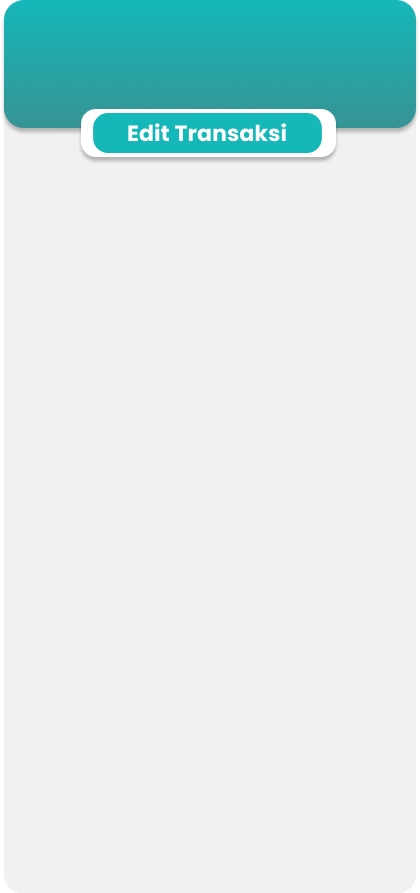
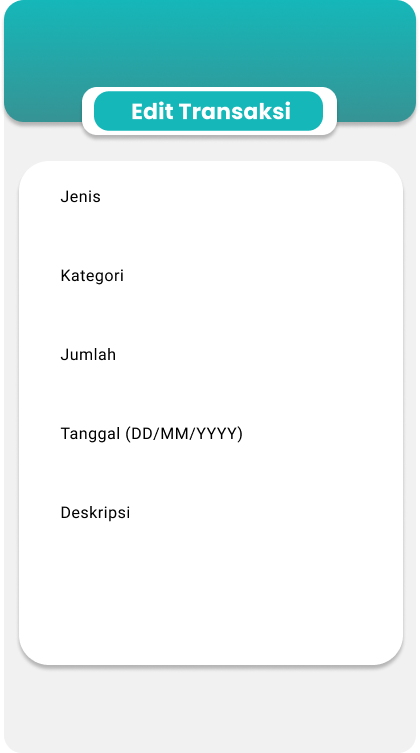
formEdit
formEdit

diff --git a/service/edit.py b/service/edit.py
@@ -2,7 +2,7 @@ from tkinter import *
 from tkinter import messagebox, ttk
 from datetime import datetime
 from database import DatabaseManager
-
+from service.formEdit import PageFormEditTransaksi
 from pathlib import Path
 
 OUTPUT_PATH = Path(__file__).parent
@@ -40,11 +40,12 @@ class PageEditTransaksi:
         Label(self.canvas, text="Masukkan ID Transaksi Yang Ingin Diubah", bg="#23A8AA", fg="#FFFFFF", font=("Arial", 10)).place(x=80, y=640.0)
 
         self.button_ubahId = PhotoImage(file=relative_to_assets("btnUbahId.png"))
-        Button(self.root, image=self.button_ubahId, borderwidth=0, bg="#369394", command=self.form_edit_transaksi, relief="flat", highlightthickness=0).place(x=280.0, y=670.0, width=103.0, height=45.0)
+        Button(self.root, image=self.button_ubahId, borderwidth=0, bg="#369394", command=lambda: self.form_edit_transaksi(self.txt_id.get()), relief="flat", highlightthickness=0).place(x=280.0, y=670.0, width=103.0, height=45.0)
 
         self.bgtxt_id = PhotoImage(file=relative_to_assets("Textbox.png"))
         self.txt_id_frame = self.canvas.create_image(120.0, 695.0, image=self.bgtxt_id)
-        Entry(self.canvas, font=("Arial", 12), width=20, relief="flat").place(x=45, y=677.0, width=150, height=26)
+        self.txt_id = Entry(self.canvas, font=("Arial", 12), width=20, relief="flat")
+        self.txt_id.place(x=45, y=677.0, width=150, height=26)
 
         self.button_kembali = PhotoImage(file=relative_to_assets("btnKembali.png"))
         Button(
@@ -76,117 +77,30 @@ class PageEditTransaksi:
         self.info_label = Label(self.root, text="", font=("Arial", 10), bg="#FFFFFF", fg="#666")
         self.info_label.place(x=10, y=710)
     
-    def form_edit_transaksi(self):
-        try:
-            # Get ID from entry
-            id_entry = self.canvas.find_withtag("current")
-            id_value = self.canvas.itemcget(id_entry, "text").strip()
-            
-            if not id_value.isdigit():
-                messagebox.showerror("Error", "ID harus berupa angka!")
-                return
-            
-            transaksi_id = int(id_value)
-            
-            self.canvas_e = Canvas(
-                self.root,
-                bg="#FFFFFF",
-                height=752,
-                width=412,
-                bd=0,
-                highlightthickness=0,
-                relief="ridge"
-            )
-            self.canvas_e.place(x=0, y=0)
+    @staticmethod
+    def center_window(window, width=412, height=752):
+        window.update_idletasks()
+        screen_width = window.winfo_screenwidth()
+        screen_height = window.winfo_screenheight()
+        x = (screen_width // 2) - (width // 2)
+        y = (screen_height // 2) - (height // 2)
+        window.geometry(f"{width}x{height}+{x}+{y}")
+    
+    def form_edit_transaksi(self, id_transaksi):
+        if not id_transaksi:
+            messagebox.showwarning("Warning", "Masukkan ID transaksi yang valid!")
+            return
+        
+        transaksi_list = self.db.get_all_transaksi()
 
-            self.image_edit = PhotoImage(file=relative_to_assets("EditForm.png"))
-            self.canvas_e.create_image(206.0, 376.0, image=self.image_edit)
-
-            # Tombol Kembali
-            self.btn_kembali_edit = PhotoImage(file=relative_to_assets("btnKembali.png"))
-            Button(
-                self.root,
-                image=self.btn_kembali_edit,
-                borderwidth=0,
-                highlightthickness=0,
-                command=self.root.destroy,
-                relief="flat"
-            ).place(x=13.0, y=35.0, width=100.0, height=22.188)
-
-            # Tombol Simpan Perubahan
-            self.btn_simpan_edit = PhotoImage(file=relative_to_assets("btnSimpanEdit.png"))
-            Button(
-                self.root,
-                image=self.btn_simpan_edit,
-                borderwidth=0,
-                highlightthickness=0,
-                command=self.simpan_perubahan,
-                relief="flat"
-            ).place(x=86.0, y=692.0, width=108.0, height=30.0)
-
-            # Tombol Batal
-            self.btn_batal_edit = PhotoImage(file=relative_to_assets("btnBatalEdit.png"))
-            Button(
-                self.root,
-                image=self.btn_batal_edit,
-                borderwidth=0,
-                highlightthickness=0,
-                command=self.reset_form,
-                relief="flat"
-            ).place(x=224.0, y=692.0, width=108.0, height=30.0)
-            
-            # Deskripsi (Text)
-            self.entry_image_1 = PhotoImage(file=self.relative_to_assets("textarea.png"))
-            self.canvas_t.create_image(205.0, 581.0, image=self.entry_image_1)
-            self.deskripsi_text = Text(
-                self.window, bd=0, bg="#FFFFFF", fg="#000716", highlightthickness=0
-            )
-            self.deskripsi_text.place(x=55.0, y=530.0, width=300.0, height=100.0)
-
-            # Jumlah
-            self.entry_image_2 = PhotoImage(file=self.relative_to_assets("txtJumlah.png"))
-            self.canvas_t.create_image(205.0, 388.0, image=self.entry_image_2)
-            self.jumlah_entry = Entry(
-                self.window, bd=0, bg="#FFFFFF", fg="#000716", highlightthickness=0
-            )
-            self.jumlah_entry.place(x=55.0, y=372.0, width=300.0, height=30.0)
-
-            # Kategori
-            self.entry_image_3 = PhotoImage(file=self.relative_to_assets("txtKategori.png"))
-            self.canvas_t.create_image(205.0, 310.0, image=self.entry_image_3)
-            self.kategori_entry = Entry(
-                self.window, bd=0, bg="#FFFFFF", fg="#000716", highlightthickness=0
-            )
-            self.kategori_entry.place(x=55.0, y=294.0, width=300.0, height=30.0)
-
-            # Tanggal
-            self.entry_image_4 = PhotoImage(file=self.relative_to_assets("txtTanggal.png"))
-            self.canvas_t.create_image(205.0, 469.0, image=self.entry_image_4)
-            self.tanggal_entry = Entry(
-                self.window, bd=0, bg="#FFFFFF", fg="#000716", highlightthickness=0
-            )
-            self.tanggal_entry.place(x=55.0, y=453.0, width=300.0, height=30.0)
-            self.tanggal_entry.insert(0, datetime.now().strftime("%d-%m-%Y"))
-
-            # Jenis transaksi (Combobox)
-            self.jenis_var = StringVar(value="Pemasukan")
-            self.jenis_combo = ttk.Combobox(
-                self.window,
-                textvariable=self.jenis_var,
-                values=["Pemasukan", "Pengeluaran"],
-                state="readonly"
-            )
-            self.jenis_combo.place(x=55.0, y=210.0, width=300.0, height=32.0)
-
-            # Variabel untuk menyimpan ID yang dipilih
-            self.selected_id = transaksi_id
-            self.status_label = Label(self.root, text="", font=("Arial", 10), bg="#FFFFFF", fg="#666")
-            self.status_label.place(x=10, y=710)
-            self.load_transaksi_detail(transaksi_id)
-            self.load_transaksi_list()
-            
-        except Exception as e:
-            messagebox.showerror("Error", f"Gagal memuat detail transaksi: {str(e)}")
+        for transaksi in transaksi_list:
+            if str(transaksi[0]) == id_transaksi:
+                formEdit_window = Toplevel(self.root)
+                PageFormEditTransaksi(formEdit_window, id_transaksi)
+                self.center_window(formEdit_window)
+                break
+        else:
+            messagebox.showwarning("Warning", "Transaksi tidak ditemukan!")
 
     def load_transaksi_list(self):
         try:

diff --git a/service/formEdit.py b/service/formEdit.py
@@ -1,0 +1,170 @@
+from tkinter import *
+from tkinter import messagebox, ttk
+from datetime import datetime
+from database import DatabaseManager
+from pathlib import Path
+
+OUTPUT_PATH = Path(__file__).parent
+ASSETS_PATH = OUTPUT_PATH.parent / "assets" / "frame0"
+
+def relative_to_assets(path: str) -> Path:
+    return ASSETS_PATH / Path(path)
+
+class PageFormEditTransaksi:
+    def __init__(self, root, id_transaksi):
+        self.root = root
+        self.root.title("Form Edit Transaksi")
+        self.root.geometry("412x752")
+        self.root.configure(bg="#F1F1F1")
+        self.root.resizable(False, False)
+        self.canvas = Canvas(
+            root,
+            bg="#F1F1F1",
+            height=752,
+            width=412,
+            bd=0,
+            highlightthickness=0,
+            relief="ridge"
+        )
+        self.canvas.place(x=0, y=0)
+        self.setup_ui()
+        
+        self.db = DatabaseManager()
+        self.selected_id = id_transaksi
+        self.load_transaksi_detail(id_transaksi)
+
+    def setup_ui(self):
+        self.image_bg = PhotoImage(file=relative_to_assets("FormEdit.png"))
+        self.canvas.create_image(206.0, 376.0, image=self.image_bg)
+
+        # Tombol kembali
+        self.btn_kembali_img = PhotoImage(file=relative_to_assets("btnKembali.png"))
+        Button(
+            self.canvas,
+            image=self.btn_kembali_img,
+            borderwidth=0,
+            highlightthickness=0,
+            command=self.root.destroy,
+            relief="flat"
+        ).place(x=13.0, y=35.0, width=100.0, height=22.188)
+
+        # Tombol simpan
+        self.btn_simpan_img = PhotoImage(file=relative_to_assets("btnSimpan.png"))
+        Button(
+            self.canvas,
+            image=self.btn_simpan_img,
+            borderwidth=0,
+            highlightthickness=0,
+            command=self.simpan_perubahan,
+            relief="flat"
+        ).place(x=289, y=672.0, width=108.0, height=30.0)
+
+        # Deskripsi (Text)
+        self.entry_image_1 = PhotoImage(file=relative_to_assets("textarea.png"))
+        self.canvas.create_image(205.0, 581.0, image=self.entry_image_1)
+        self.deskripsi_text = Text(
+            self.canvas, bd=0, bg="#FFFFFF", fg="#000716", highlightthickness=0
+        )
+        self.deskripsi_text.place(x=55.0, y=530.0, width=300.0, height=100.0)
+
+        # Jumlah
+        self.jumlah_var = StringVar()
+        self.entry_image_2 = PhotoImage(file=relative_to_assets("txtJumlah.png"))
+        self.canvas.create_image(205.0, 388.0, image=self.entry_image_2)
+        self.jumlah_entry = Entry(
+            self.canvas, textvariable=self.jumlah_var, bd=0, bg="#FFFFFF", fg="#000716", highlightthickness=0
+        )
+        self.jumlah_entry.place(x=55.0, y=372.0, width=300.0, height=30.0)
+
+        # Kategori
+        self.entry_image_3 = PhotoImage(file=relative_to_assets("txtKategori.png"))
+        self.canvas.create_image(205.0, 310.0, image=self.entry_image_3)
+        self.kategori_var = StringVar()
+        self.kategori_entry = Entry(
+            self.canvas, textvariable=self.kategori_var, bd=0, bg="#FFFFFF", fg="#000716", highlightthickness=0
+        )
+        self.kategori_entry.place(x=55.0, y=294.0, width=300.0, height=30.0)
+
+        # Tanggal
+        self.entry_image_4 = PhotoImage(file=relative_to_assets("txtTanggal.png"))
+        self.canvas.create_image(205.0, 469.0, image=self.entry_image_4)
+        self.tanggal_var = StringVar()
+        self.tanggal_entry = Entry(
+            self.canvas, textvariable=self.tanggal_var, bd=0, bg="#FFFFFF", fg="#000716", highlightthickness=0
+        )
+        self.tanggal_entry.place(x=55.0, y=453.0, width=300.0, height=30.0)
+        self.tanggal_var.set(datetime.now().strftime("%d-%m-%Y"))
+
+        # Jenis transaksi (Combobox)
+        self.jenis_var = StringVar()
+        self.jenis_combo = ttk.Combobox(
+            self.canvas,
+            textvariable=self.jenis_var,
+            values=["Pemasukan", "Pengeluaran"],
+            state="readonly"
+        )
+        self.jenis_combo.place(x=55.0, y=210.0, width=300.0, height=32.0)
+
+    def load_transaksi_detail(self, transaksi_id):
+        try:
+            # Get detailed data from database
+            conn = self.db.get_connection()
+            cursor = conn.cursor()
+            cursor.execute('SELECT * FROM transaksi WHERE id = ?', (transaksi_id,))
+            transaksi = cursor.fetchone()
+            conn.close()
+            
+            if transaksi:
+                # self.selected_id = transaksi[0]
+                
+                # Fill form fields
+                # self.id_var.set(str(transaksi[0]))
+                self.jenis_var.set(transaksi[1])
+                self.kategori_var.set(transaksi[2])
+                self.jumlah_var.set(str(transaksi[3]))
+                self.tanggal_var.set(transaksi[4])
+                
+                # Clear and set description
+                self.deskripsi_text.delete(1.0, END)
+                if transaksi[5]:
+                    self.deskripsi_text.insert(1.0, transaksi[5])
+                
+                # self.status_label.config(text=f"Editing transaksi ID: {transaksi[0]}", fg="blue")
+            
+        except Exception as e:
+            messagebox.showerror("Error", f"Gagal memuat detail: {str(e)}")
+    
+    def simpan_perubahan(self):
+        # if not self.selected_id:
+        #     messagebox.showwarning("Warning", "Pilih transaksi yang akan diedit!")
+        #     return
+        print("Simpan perubahan")
+        try:
+            # Validate input
+            jenis = self.jenis_var.get()
+            kategori = self.kategori_var.get().strip()
+            jumlah = float(self.jumlah_var.get())
+            tanggal = self.tanggal_var.get().strip()
+            deskripsi = self.deskripsi_text.get(1.0, END).strip()
+            
+            if not kategori:
+                messagebox.showerror("Error", "Kategori harus diisi!")
+                return
+            
+            if not jenis:
+                messagebox.showerror("Error", "Pilih jenis transaksi!")
+                return
+            
+            # Confirm update
+            if messagebox.askyesno("Konfirmasi", 
+                                 f"Yakin ingin mengupdate transaksi ID {self.selected_id}?"):
+                
+                # Update database
+                self.db.update_transaksi(self.selected_id, jenis, kategori, jumlah, tanggal, deskripsi)
+                
+                messagebox.showinfo("Sukses", "Transaksi berhasil diupdate!")
+                
+        except ValueError:
+            messagebox.showerror("Error", "Jumlah harus berupa angka!")
+        except Exception as e:
+            messagebox.showerror("Error", f"Gagal menyimpan: {str(e)}")
